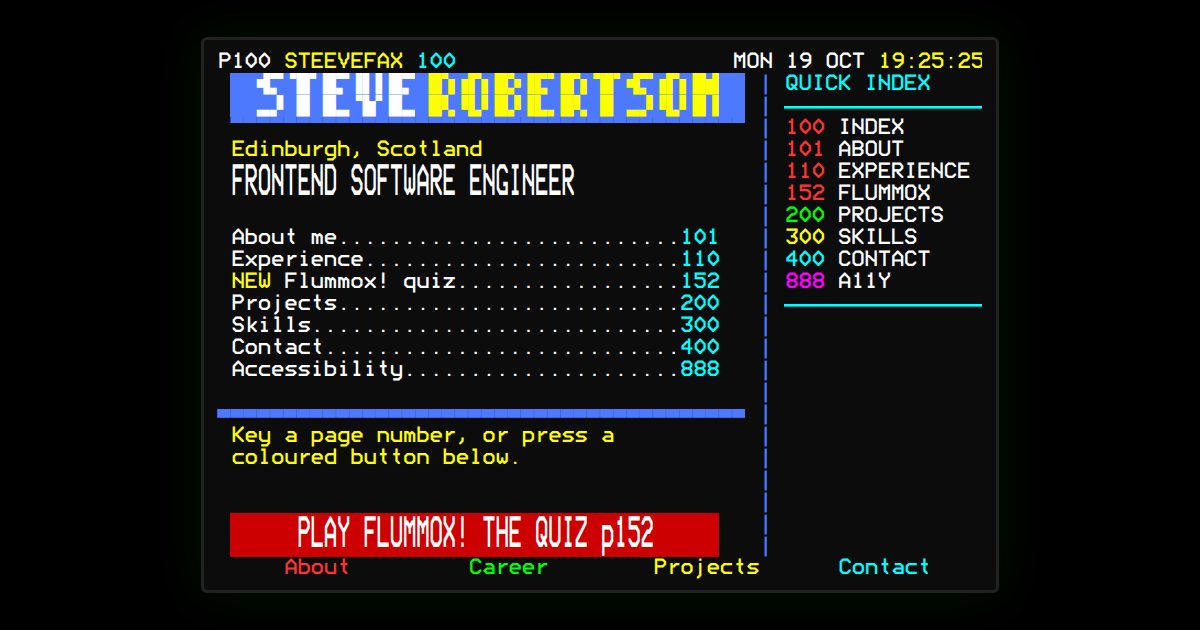
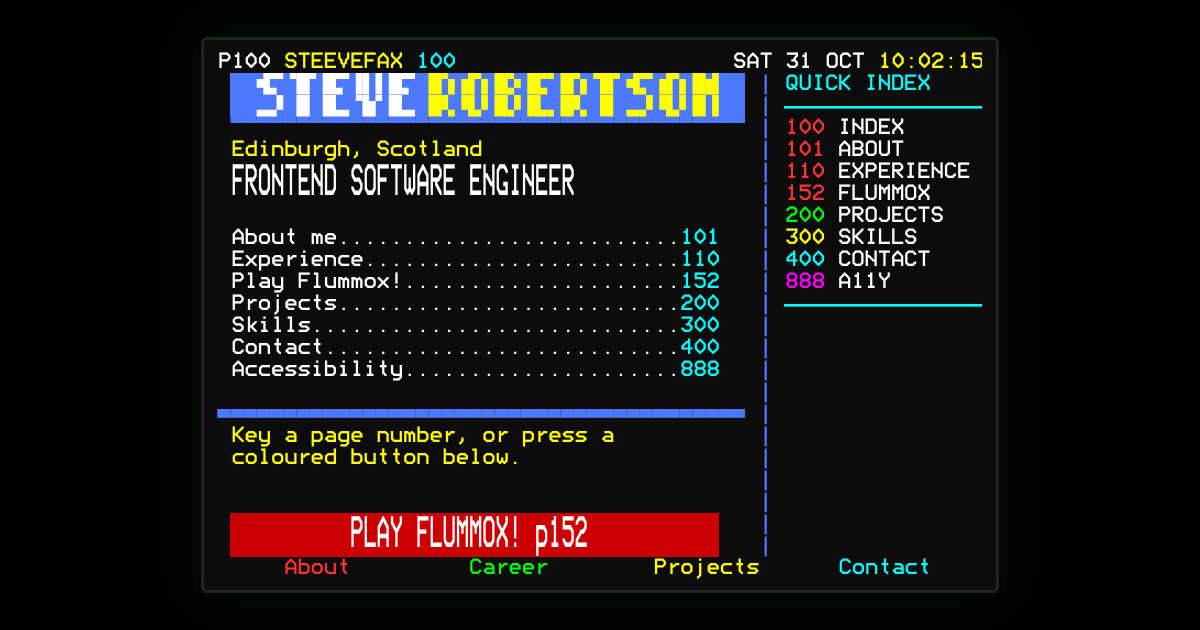
Homepage after Halloween: "Play Flummox!" and "PLAY FLUMMOX! p152" [update baselines]
Page 100's Flummox! line drops the NEW label and reads "Play Flummox!",
and the promo bar on pages 100, 200 and 400 reads "PLAY FLUMMOX! p152".
The Halloween special's copy changes now find the new wording, so it
still shows its own lines until it ends. The link-preview image is
refreshed.

Claude-Session: https://claude.ai/code/session_01FJAhhgw9T6aQDZmKTrMgae

diff --git a/src/content/schema.ts b/src/content/schema.ts
@@ -88,7 +88,7 @@ export interface PageSource {
   hint?: string;
   /**
    * A double-height red promo bar above Fastext, linking to `page`, as Teletext
-   * advertised its other pages ("PLAY FLUMMOX! THE QUIZ p152"). Pages without sub-pages only.
+   * advertised its other pages ("PLAY FLUMMOX! p152"). Pages without sub-pages only.
    */
   promo?: { text: string; page: number };
   /** Portrait override, used line for line instead of the automatic wrap. */

diff --git a/docs/seasonal/README.md b/docs/seasonal/README.md
@@ -16,7 +16,7 @@ The rest of the site (About, Career, Projects, Skills, the colours) stays as it 
   "from": "2026-10-27",
   "until": "2026-10-31",
   "costume": "halloween",
-  "copy": [{ "find": "PLAY FLUMMOX! THE QUIZ p152", "replace": "HALLOWEEN FLUMMOX! QUIZ p152" }],
+  "copy": [{ "find": "PLAY FLUMMOX! p152", "replace": "HALLOWEEN FLUMMOX! QUIZ p152" }],
   "quiz": { "edition": "Halloween 2026", "title": "HALLOWEEN SPECIAL", "greeting": "Happy Halloween! …", "…": "as quiz.json" }
 }
 ```
